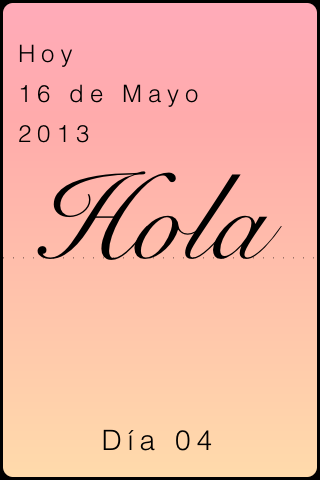
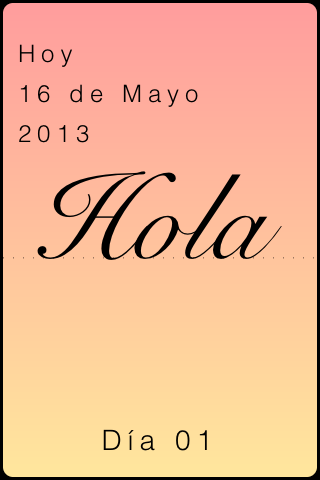
Corregida la primera captura del tutorial Se ha vuelto a ajustar los gradientes

Changed region(s): [[0.0, 0.0, 1.0, 0.0938], [0.625, 0.875, 0.6562, 0.9375]]

diff --git a/Code/Word Diary/WDWordDiary.m b/Code/Word Diary/WDWordDiary.m
@@ -428,14 +428,23 @@
     WDPalette *nextPalette = [self findNextPaletteOfPalette:word.palette];
     WDPalette *prevprevPalette = [self findPrevPaletteOfPalette:prevPalette];
     WDPalette *nextnextPalette = [self findNextPaletteOfPalette:nextPalette];
+    WDPalette *prevprevprevPalette = [self findPrevPaletteOfPalette:prevprevPalette];
+    WDPalette *nextnextnextPalette = [self findNextPaletteOfPalette:nextnextPalette];
+    //WDPalette *prevprevprevprevPalette = [self findPrevPaletteOfPalette:prevprevprevPalette];
+    //WDPalette *nextnextnextnextPalette = [self findNextPaletteOfPalette:nextnextnextPalette];
     
     NSArray *gradientColorArray = [[NSArray alloc]
                                    initWithObjects:
+                                   //[prevprevprevprevPalette makeLightBackgroundColorObject],
+                                   [prevprevprevPalette makeLightBackgroundColorObject],
                                    [prevprevPalette makeLightBackgroundColorObject],
                                    [prevPalette makeLightBackgroundColorObject],
                                    [word.palette makeLightBackgroundColorObject],
                                    [nextPalette makeLightBackgroundColorObject],
-                                   [nextnextPalette makeLightBackgroundColorObject], nil];
+                                   [nextnextPalette makeLightBackgroundColorObject],
+                                   [nextnextnextPalette makeLightBackgroundColorObject],
+                                  // [nextnextnextnextPalette makeLightBackgroundColorObject],
+                                   nil];
     
     return gradientColorArray;
 

diff --git a/Code/Word Diary/WDWordScreenCollectionViewCell.m b/Code/Word Diary/WDWordScreenCollectionViewCell.m
@@ -155,7 +155,7 @@
         NSArray *toValueArray = nil;
         NSArray *gradientColorPalette = [[WDWordDiary sharedWordDiary] makeGradientColorPaletteOfWord:word];
         for (UIColor *colorIt in gradientColorPalette) {
-            UIColor *colorOffset = [colorIt offsetWithHue:0.0 saturation:0.0 lightness:0.05 alpha:0];
+            UIColor *colorOffset = [colorIt offsetWithHue:0.0 saturation:0.0 lightness:-0.05 alpha:0];
             toValueArray = toValueArray == nil ? [NSArray arrayWithObject:(id)colorOffset.CGColor] : [toValueArray arrayByAddingObject:(id)colorOffset.CGColor];
         }
         gradientAnimation.toValue = toValueArray;

diff --git a/Code/Word Diary/WDWordScreenViewController.m b/Code/Word Diary/WDWordScreenViewController.m
@@ -162,7 +162,7 @@
     }
     
     if ([[NSUserDefaults standardUserDefaults] boolForKey:@"FIRST_BACKGROUND_SETTING"]) {
-        WDPalette *startingWordPalette = [[WDWordDiary sharedWordDiary].palettes objectAtIndex:0];
+        WDPalette *startingWordPalette = [[WDWordDiary sharedWordDiary].palettes objectAtIndex:3];
         selectedWordCandidate.palette = startingWordPalette;
         [[NSUserDefaults standardUserDefaults] setBool:NO forKey:@"FIRST_BACKGROUND_SETTING"];
         [[NSUserDefaults standardUserDefaults] synchronize];

diff --git a/Code/Word Diary/WDUtils.m b/Code/Word Diary/WDUtils.m
@@ -324,8 +324,8 @@
 + (NSArray *)makeColorGradientWithHSL
 {
     NSMutableArray *array = [[NSMutableArray alloc] init];
-    for (NSUInteger i = 0; i < 255; i += 8) {
-        [array addObject:[UIColor colorWithHue:i/255.0 saturation:1.0 lightness:0.85 alpha:1.0]];
+    for (NSUInteger i = 0; i < 255; i += 6) {
+        [array addObject:[UIColor colorWithHue:i/255.0 saturation:1.0 lightness:0.81 alpha:1.0]];
     }
   
     return array;
